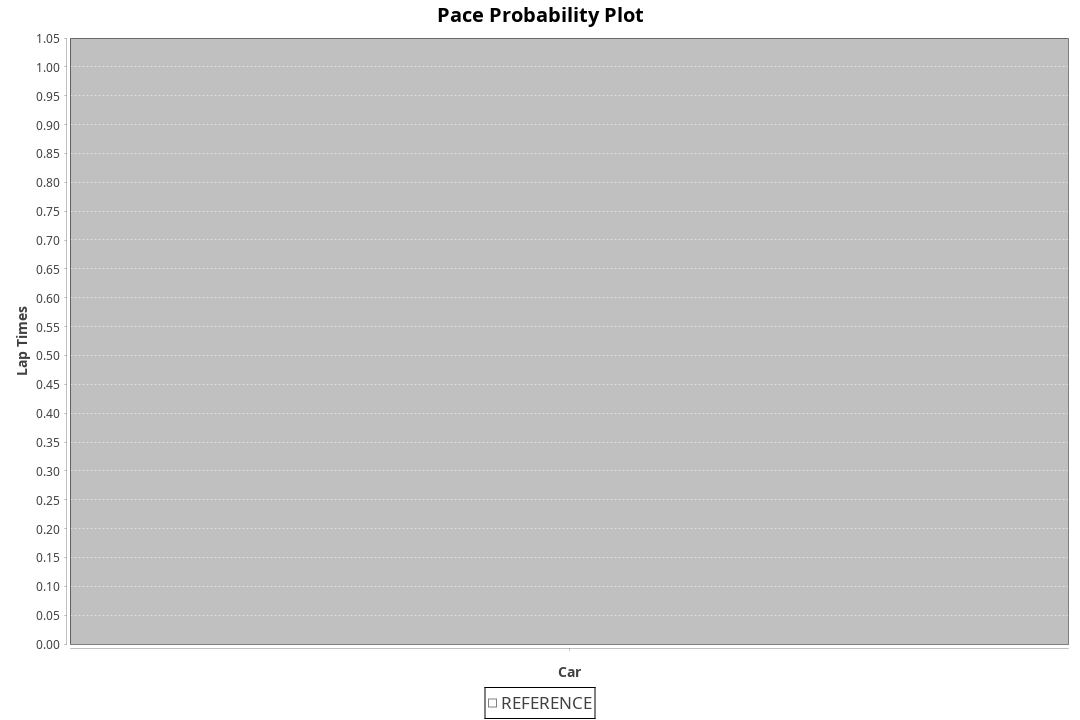
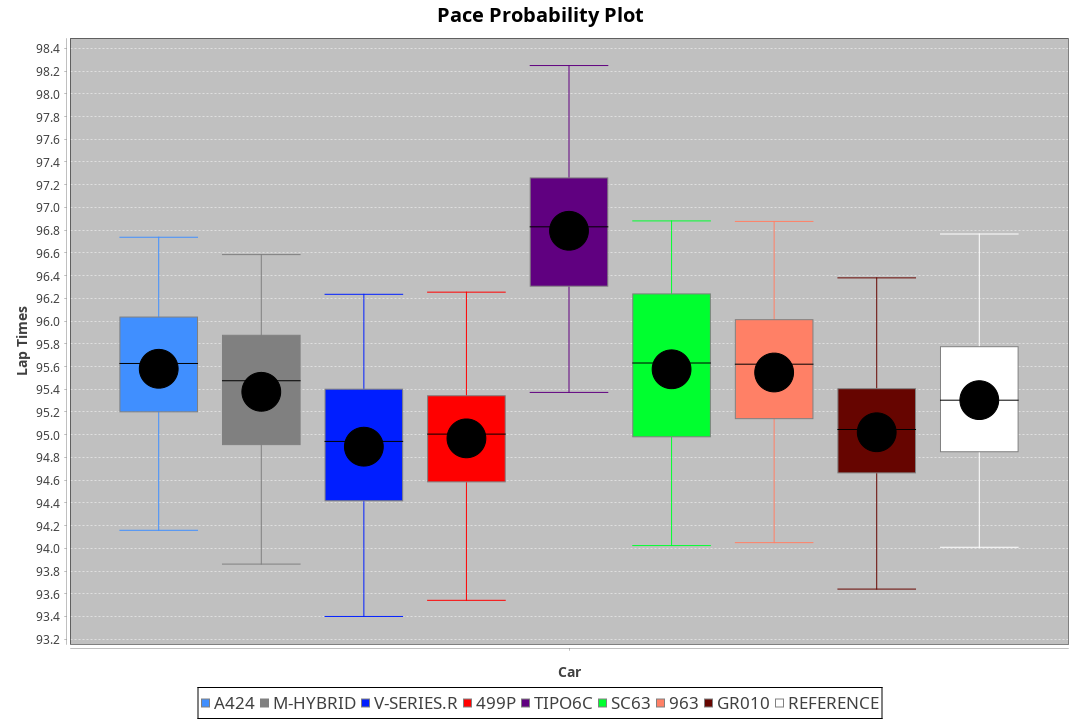
Added Official IMOLA BP

diff --git a/BOP/WEC2024/IMOLA/PREDEFINED/OFFICIAL_BOP.md b/BOP/WEC2024/IMOLA/PREDEFINED/OFFICIAL_BOP.md
@@ -1,0 +1,74 @@
+| Manufacturer     | Car        | Weight | Power | PINC    | E/Stint | FDS     |
+|:-|:-|:-|:-|:-|:-|:-|
+| Alpine           | A424       | 1042kg | 514kw |    -    | 910MJ   |    -    |
+| BMW              | M-Hybrid   | 1035kg | 511kw |    -    | 903MJ   |    -    |
+| Cadillac         | V-Series.R | 1030kg | 517kw |    -    | 904MJ   |    -    |
+| Ferrari          | 499P       | 1041kg | 510kw |    -    | 898MJ   | 190kph  |
+| Isotta Fraschini | Tipo6C     | 1058kg | 520kw |    -    | 919MJ   | 190kph  |
+| Lamborghini      | SC63       | 1034kg | 516kw |    -    | 907MJ   |    -    |
+| Porsche          | 963        | 1033kg | 508kw |    -    | 893MJ   |    -    |
+| Toyota           | GR010      | 1060kg | 516kw |    -    | 906MJ   | 190kph  |
+
+![PACECHART](./IMG/OFFICIAL.png)
+![STRAIGHTLINEPERFORMANCECHART](./IMG/OFFICIAL_sp.png)
+![TYREPERFORMANCECHART](./IMG/OFFICIAL_tw.png)
+
+### BoP Accuracy: 73.04%; Overall BoP Grade: C2
+| Manufacturer     | Car        | Type  | RP      | QP      | Weight | Power¹ | Threshhold | PINC    | Power² | E/Stint | AVG Vmax  | FDS     | RDLC | L/Stint | BOP-Grade | Model Accuracy | Model Points | Match%  |
+|:-|:-|:-|:-|:-|:-|:-|:-|:-|:-|:-|:-|:-|:-|:-|:-|:-|:-|:-|
+| Alpine           | A424       | LMDH  | 1:35.57 | 1:32.71 | 1042kg | 514kw  | 0.0kph     |    -    | 514kw  |  910MJ  | 293.89kph |    -    | 1.02 | 37      | +C2       | 100.00%        | 642          | 72.12%  |
+| BMW              | M-Hybrid   | LMDH  | 1:35.29 | 1:31.63 | 1035kg | 511kw  | 0.0kph     |    -    | 511kw  |  903MJ  | 290.09kph |    -    | 1.03 | 37      | -A2       | 100.00%        | 1714         | 91.61%  |
+| Cadillac         | V-Series.R | LMDH  | 1:34.82 | 1:30.93 | 1030kg | 517kw  | 0.0kph     |    -    | 517kw  |  904MJ  | 295.77kph |    -    | 1.03 | 37      | -D1       | 98.95%         | 2271         | 69.85%  |
+| Ferrari          | 499P       | LMHHU | 1:34.93 | 1:31.00 | 1041kg | 510kw  | 0.0kph     |    -    | 510kw  |  898MJ  | 296.45kph | 190kph  | 1.05 | 37      | -C2       | 99.93%         | 2718         | 72.98%  |
+| Isotta Fraschini | Tipo6C     | LMHHU | 1:36.82 | 1:34.36 | 1058kg | 520kw  | 0.0kph     |    -    | 520kw  |  919MJ  | 293.41kph | 190kph  | 1.04 | 37      | +Ω2       | 92.36%         | 133          | -0.02%  |
+| Lamborghini      | SC63       | LMDH  | 1:35.45 | 1:33.88 | 1034kg | 516kw  | 0.0kph     |    -    | 516kw  |  907MJ  | 292.82kph |    -    | 1.06 | 37      | ~A1       | 96.54%         | 418          | 100.00% |
+| Porsche          | 963        | LMDH  | 1:35.48 | 1:31.50 | 1033kg | 508kw  | 0.0kph     |    -    | 508kw  |  893MJ  | 294.04kph |    -    | 1.03 | 37      | ~A1       | 99.98%         | 6168         | 100.00% |
+| Toyota           | GR010      | LMHHU | 1:34.96 | 1:31.04 | 1060kg | 516kw  | 0.0kph     |    -    | 516kw  |  906MJ  | 295.62kph | 190kph  | 1.03 | 37      | -C1       | 98.53%         | 3557         | 77.78%  |
+
+## Power below Threshhold
+| N/Nmax    | A424    | M-HYBRID | V-SERIES.R | 499P    | TIPO6C  | SC63    | 963     | GR010   |
+|:-|:-|:-|:-|:-|:-|:-|:-|:-|
+|  0.550    |  253    |  252     |  255       |  251    |  256    |  254    |  250    |  254    |
+|  0.575    |  276    |  275     |  278       |  274    |  279    |  277    |  273    |  277    |
+|  0.600    |  297    |  295     |  298       |  295    |  300    |  298    |  293    |  298    |
+|  0.625    |  318    |  316     |  320       |  316    |  322    |  319    |  314    |  319    |
+|  0.650    |  339    |  337     |  341       |  337    |  343    |  340    |  335    |  340    |
+|  0.675    |  361    |  359     |  363       |  358    |  365    |  362    |  357    |  362    |
+|  0.700    |  383    |  380     |  385       |  380    |  387    |  384    |  378    |  384    |
+|  0.725    |  404    |  402     |  407       |  401    |  409    |  406    |  399    |  406    |
+|  0.750    |  425    |  422     |  427       |  422    |  430    |  427    |  420    |  427    |
+|  0.775    |  444    |  441     |  446       |  441    |  449    |  446    |  439    |  446    |
+|  0.800    |  462    |  459     |  464       |  458    |  467    |  463    |  456    |  463    |
+|  0.825    |  477    |  474     |  479       |  473    |  482    |  478    |  471    |  478    |
+|  0.850    |  488    |  485     |  491       |  485    |  494    |  490    |  483    |  490    |
+|  0.875    |  499    |  496     |  502       |  495    |  505    |  501    |  493    |  501    |
+|  0.900    |  506    |  503     |  509       |  502    |  512    |  508    |  500    |  508    |
+|  0.925    |  511    |  508     |  514       |  507    |  517    |  513    |  505    |  513    |
+| **0.950** | **514** | **511**  | **517**    | **510** | **520** | **516** | **508** | **516** |
+|  0.975    |  512    |  509     |  515       |  508    |  518    |  514    |  506    |  514    |
+|  1.000    |  508    |  505     |  511       |  505    |  514    |  510    |  503    |  510    |
+|  1.025    |  439    |  436     |  441       |  436    |  444    |  441    |  434    |  441    |
+
+## Power above Threshhold
+| N/Nmax    | A424    | M-HYBRID | V-SERIES.R | 499P    | TIPO6C  | SC63    | 963     | GR010   |
+|:-|:-|:-|:-|:-|:-|:-|:-|:-|
+|  0.550    |  253    |  252     |  255       |  251    |  256    |  254    |  250    |  254    |
+|  0.575    |  276    |  275     |  278       |  274    |  279    |  277    |  273    |  277    |
+|  0.600    |  297    |  295     |  298       |  295    |  300    |  298    |  293    |  298    |
+|  0.625    |  318    |  316     |  320       |  316    |  322    |  319    |  314    |  319    |
+|  0.650    |  339    |  337     |  341       |  337    |  343    |  340    |  335    |  340    |
+|  0.675    |  361    |  359     |  363       |  358    |  365    |  362    |  357    |  362    |
+|  0.700    |  383    |  380     |  385       |  380    |  387    |  384    |  378    |  384    |
+|  0.725    |  404    |  402     |  407       |  401    |  409    |  406    |  399    |  406    |
+|  0.750    |  425    |  422     |  427       |  422    |  430    |  427    |  420    |  427    |
+|  0.775    |  444    |  441     |  446       |  441    |  449    |  446    |  439    |  446    |
+|  0.800    |  462    |  459     |  464       |  458    |  467    |  463    |  456    |  463    |
+|  0.825    |  477    |  474     |  479       |  473    |  482    |  478    |  471    |  478    |
+|  0.850    |  488    |  485     |  491       |  485    |  494    |  490    |  483    |  490    |
+|  0.875    |  499    |  496     |  502       |  495    |  505    |  501    |  493    |  501    |
+|  0.900    |  506    |  503     |  509       |  502    |  512    |  508    |  500    |  508    |
+|  0.925    |  511    |  508     |  514       |  507    |  517    |  513    |  505    |  513    |
+| **0.950** | **514** | **511**  | **517**    | **510** | **520** | **516** | **508** | **516** |
+|  0.975    |  512    |  509     |  515       |  508    |  518    |  514    |  506    |  514    |
+|  1.000    |  508    |  505     |  511       |  505    |  514    |  510    |  503    |  510    |
+|  1.025    |  439    |  436     |  441       |  436    |  444    |  441    |  434    |  441    |
